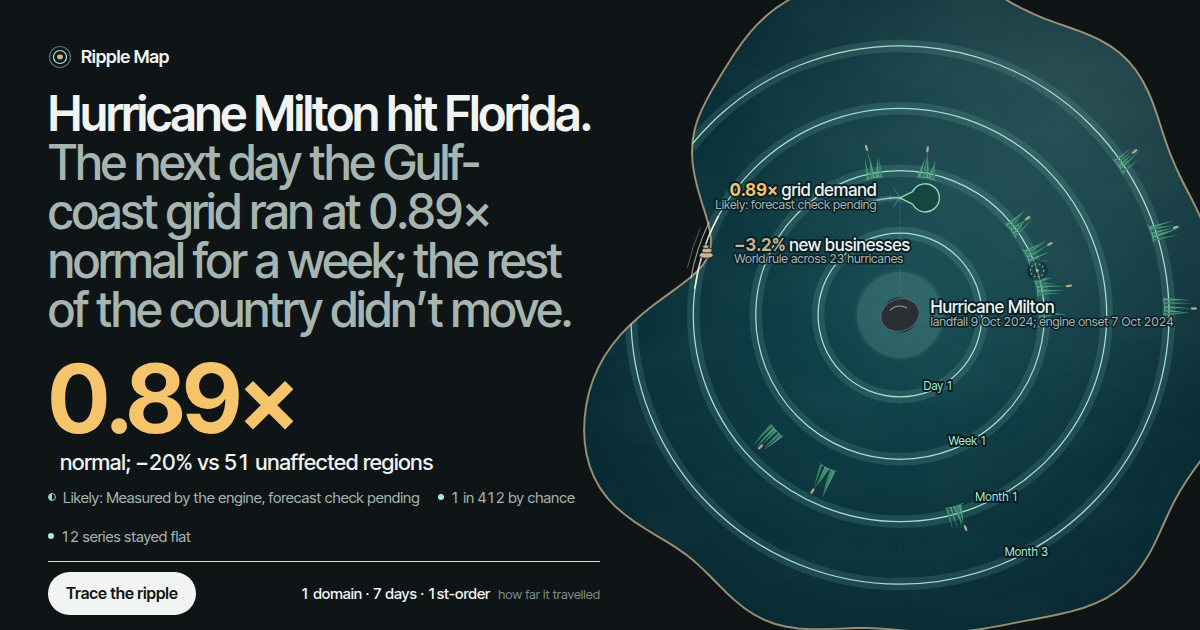
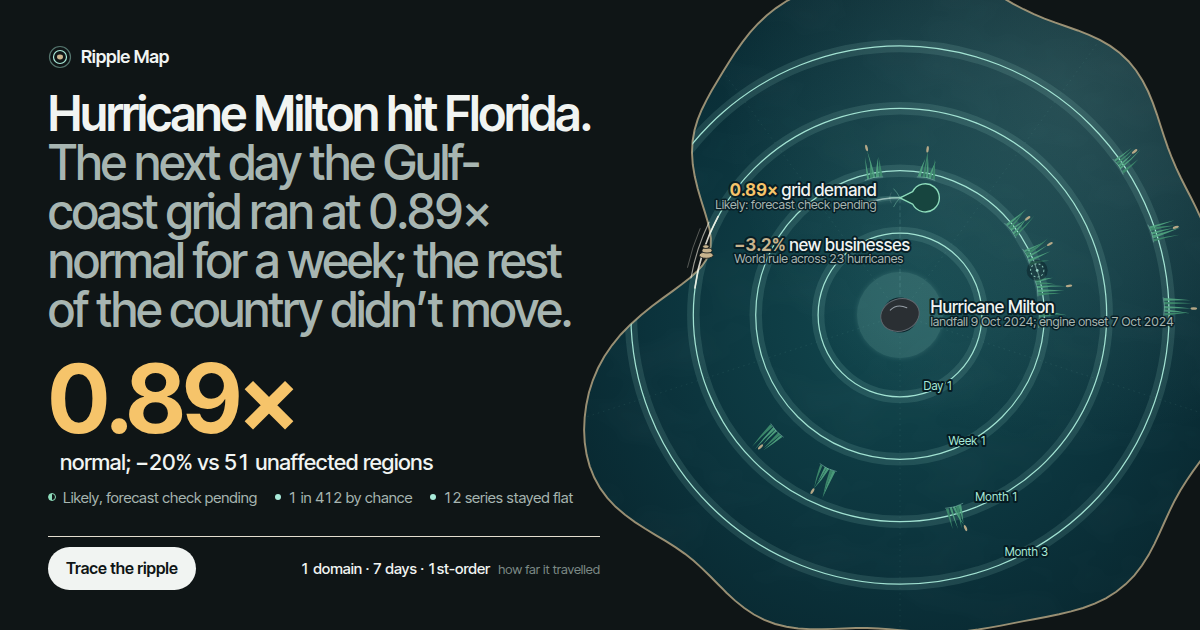
Ripple Map: pond slice - tier wording gate-driven everywhere + trust-gradient guard in tests
Claude-Session: https://claude.ai/code/session_01LeVVfNQrXHM6o8YF7L9Ast

Changed region(s): [[0.2467, 0.8746, 0.4933, 0.9651], [0.0308, 0.8444, 0.185, 0.9952], [0.0925, 0.7841, 0.4933, 0.8143]]

diff --git a/ripples/pond/app.js b/ripples/pond/app.js
@@ -36,7 +36,8 @@
 
   /* ---------- hero copy (from the story fields in the snapshot) ---------- */
   /* the hook copy is static in index.html so nothing shifts on load; it is checked against the snapshot and rewritten only if stale */
-  const H1 = { hook: $('#h1').innerHTML, traced: `One storm.<br>One ripple, measured.<br><span class="quiet">${flatsWord(P.flats.length)} things that stayed flat.</span>` };
+  // tier-driven headline: the word Measured appears only when the gated published tier is measured
+  const H1 = { hook: $('#h1').innerHTML, traced: E.published.tier === 'measured' ? `One storm.<br>One ripple, measured.<br><span class="quiet">${flatsWord(P.flats.length)} things that stayed flat.</span>` : `One storm.<br>One ripple.<br><span class="quiet">${flatsWord(P.flats.length)} things that stayed flat.</span>` };
   const trustWant = `1 in ${Math.round(1 / E.engine.p_date)}`;
   if (!$('#trust').textContent.includes(trustWant) || !$('#trust').textContent.includes(esc(tierLine(E)))) $('#trust').innerHTML = `<b>${esc(tierLine(E))}.</b> ${E.engine.exceed_date} of ${E.engine.n_date.toLocaleString()} fake dates come close (<span class="num">${trustWant}</span>), and Florida moved against ${E.contrast.n_donors} regions the storm missed. <span class="no">Passed after ${E.replication.n_seen} of ${E.replication.n_similar} similar storms tested.</span>`;
   if (!$('#reach').textContent.includes(`${P.travel.days} days`)) $('#reach').innerHTML = `<span class="num">${P.travel.domains}</span> domain · <span class="num">${P.travel.days}</span> days · 1st-order<small>How far the ripple travelled. ${esc(P.travel.usual_reach)}.</small>`;
@@ -193,7 +194,7 @@
     const r = e.replication;
     body.innerHTML = `
       <p class="crumb">${esc(P.domains[e.domain])}, ${esc(e.lag_text)}. This ripple <b>forks straight from the storm</b>: no chain through another stop is claimed.</p>
-      <span class="chip ${esc(e.tier)}">${glyph(e.tier)}${esc(tierWord(e))}${e.published.reason ? `<em>${esc(TIER[e.engine_tier])} by the engine; ${esc(e.published.reason)}</em>` : ''}</span>
+      <span class="chip ${esc(e.tier)}">${glyph(e.tier)}${esc(tierWord(e))}${e.published.reason ? `<em>${esc(e.published.detail)}</em>` : ''}</span>
       <h2>${esc(e.title)}</h2>
       <div class="big num">${esc(e.num)}<small>${esc(e.unit)}</small></div>
       <p class="find">${esc(e.plain)}</p>
@@ -280,6 +281,7 @@
   /* ---------- send ---------- */
   const url = P.links.site;
   const shareText = () => `${P.story.story_sentence}\n${P.story.conversation_hook}\n${P.story.share_line}\n${url}`;
+  window.__pond = { publishedTier: E.published.tier, shareText };   // read by tools/shoot.mjs for the tier-wording guard
   let tt; function toast(msg) { const t = $('#toast'); t.textContent = msg; t.classList.add('on'); clearTimeout(tt); tt = setTimeout(() => t.classList.remove('on'), 2400); }
   function copy(text) { const ok = () => toast('Copied. Paste it anywhere.'); if (navigator.clipboard && window.isSecureContext) return navigator.clipboard.writeText(text).then(ok, () => fallbackCopy(text, ok)); fallbackCopy(text, ok); }
   function fallbackCopy(text, ok) { const ta = document.createElement('textarea'); ta.value = text; ta.setAttribute('aria-hidden', 'true'); ta.style.cssText = 'position:fixed;top:-100px;opacity:0'; document.body.append(ta); ta.select(); try { document.execCommand('copy'); ok(); } catch { toast('Select the text to copy it'); } ta.remove(); }

diff --git a/ripples/pond/index.html b/ripples/pond/index.html
@@ -8,7 +8,7 @@
 <link rel="canonical" href="https://bensunter.com/ripples/pond/">
 <meta property="og:type" content="article">
 <meta property="og:title" content="Hurricane Milton → Florida grid demand: 0.89× normal, −20% against unaffected regions">
-<meta property="og:description" content="The day after landfall, the Gulf-coast grid was drawing 0.89× its normal for a week while 51 regions the storm missed did not move. Measured by the engine, forecast check pending. Consistent with, never proof of cause.">
+<meta property="og:description" content="The day after landfall, the Gulf-coast grid was drawing 0.89× its normal for a week while 51 regions the storm missed did not move. Likely, forecast check pending. Consistent with, never proof of cause.">
 <meta property="og:url" content="https://bensunter.com/ripples/pond/">
 <meta property="og:image" content="https://bensunter.com/ripples/pond/og/milton.png">
 <meta property="og:image:width" content="1200">
@@ -56,7 +56,7 @@
   <div class="lede">
     <p class="kicker" id="kicker">Hurricane Milton <span class="num">9 Oct 2024</span> <span class="tag">real engine data, snapshot 2026-09-26</span></p>
     <h1 id="h1">Hurricane Milton. <span class="quiet">The day after landfall, something moved in Florida’s power grid.</span></h1>
-    <p class="trust hook-h" id="trust"><b>Likely: Measured by the engine; forecast check pending.</b> 3 of 1,646 fake dates come close (<span class="num">1 in 412</span>), and Florida moved against 51 regions the storm missed. <span class="no">Passed after 1 of 27 similar storms tested.</span></p>
+    <p class="trust hook-h" id="trust"><b>Likely, forecast check pending.</b> 3 of 1,646 fake dates come close (<span class="num">1 in 412</span>), and Florida moved against 51 regions the storm missed. <span class="no">Passed after 1 of 27 similar storms tested.</span></p>
     <p class="reach hook-h" id="reach"><span class="num">1</span> domain · <span class="num">7</span> days · 1st-order<small>How far the ripple travelled. Storms like it usually reach Business four weeks on (23-hurricane rule).</small></p>
     <div class="actions hook-h"><button class="btn primary big-btn" id="btn-trace" type="button">Trace it<svg width="14" height="14" aria-hidden="true"><use href="#i-arrow"/></svg></button></div>
 
@@ -88,7 +88,7 @@
 <section class="shore" id="shore">
   <div class="shore-in">
     <h2>What else did Milton touch?</h2>
-    <p class="lead">Everything the engine registered for this storm, in one place: the one thing it has measured, where storms like it usually reach, and the twelve series still waiting for their test.</p>
+    <p class="lead">Everything the engine registered for this storm, in one place: the one thing that moved, where storms like it usually reach, and the twelve series still waiting for their test.</p>
     <ul class="chain" id="chain-list"></ul>
 
     <div class="past" id="past">

diff --git a/ripples/pond/share.html b/ripples/pond/share.html
@@ -47,7 +47,7 @@ body{background:#2A3234;padding:40px;display:grid;gap:40px;justify-items:start;o
     <div class="brand"><svg viewBox="0 0 24 24" aria-hidden="true"><ellipse cx="12" cy="12" rx="3" ry="2.4" fill="#C8B48E"/><circle cx="12" cy="12" r="6.5" fill="none" stroke="#A9EAD9" stroke-width="1.2"/><circle cx="12" cy="12" r="10.5" fill="none" stroke="#A9EAD9" stroke-width="1.2" opacity=".45"/></svg>Ripple Map</div>
     <h1>Hurricane Milton hit Florida. <span class="q">The next day the Gulf-coast grid ran at 0.89× normal for a week; the rest of the country didn’t move.</span></h1>
     <div class="big num">0.89×<small>normal; −20% vs 51 unaffected regions</small></div>
-    <div class="trust"><span class="half">Likely: Measured by the engine, forecast check pending</span><span>1 in 412 by chance</span><span>12 series stayed flat</span></div>
+    <div class="trust"><span class="half">Likely, forecast check pending</span><span>1 in 412 by chance</span><span>12 series stayed flat</span></div>
     <div class="foot"><span class="cta">Trace the ripple</span><span class="reach"><span class="num">1</span> domain · <span class="num">7</span> days · 1st-order<small>how far it travelled</small></span></div>
   </div>
   <svg class="pond" id="pond-land" aria-hidden="true"></svg>
@@ -62,7 +62,7 @@ body{background:#2A3234;padding:40px;display:grid;gap:40px;justify-items:start;o
   <div class="copy">
     <h1>Hurricane Milton hit Florida. <span class="q">The next day the Gulf-coast grid ran at 0.89× normal for a week; the rest of the country didn’t move.</span></h1>
     <div class="big num">0.89×<small>normal; −20% vs unaffected regions</small></div>
-    <div class="trust"><span class="half">Likely: Measured by the engine, forecast check pending</span><span>1 in 412 by chance</span><span>12 series stayed flat</span></div>
+    <div class="trust"><span class="half">Likely, forecast check pending</span><span>1 in 412 by chance</span><span>12 series stayed flat</span></div>
     <div class="foot"><span class="cta">What else did Milton touch?</span><span class="reach"><span class="num">1</span> domain · <span class="num">7</span> days · 1st-order</span></div>
   </div>
 </div>
@@ -74,6 +74,7 @@ fetch('data/milton.json').then(r => r.json()).then(P => {
   P.untested.forEach(u => { u.offset = 0; });
   Pond.render(document.getElementById('pond-land'), { ...P, rivals: [], filtered: [] }, { reduceMotion: true, viewBox: [-500, -500, 1000, 1000] });
   Pond.render(document.getElementById('pond-port'), { ...P, rivals: [], filtered: [] }, { reduceMotion: true, viewBox: [-560, -430, 1120, 860] });
+  window.__shareTier = P.effects[0].published.tier;
   document.body.dataset.ready = '1';
 });
 </script>
